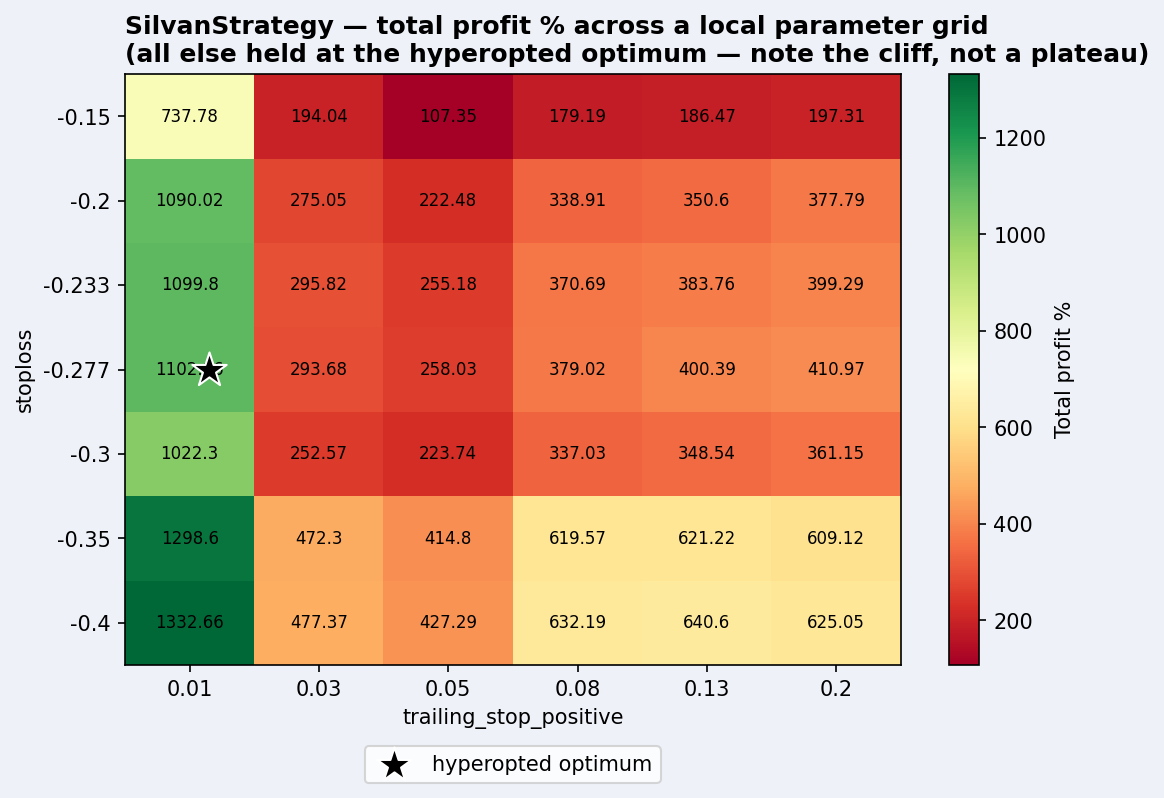
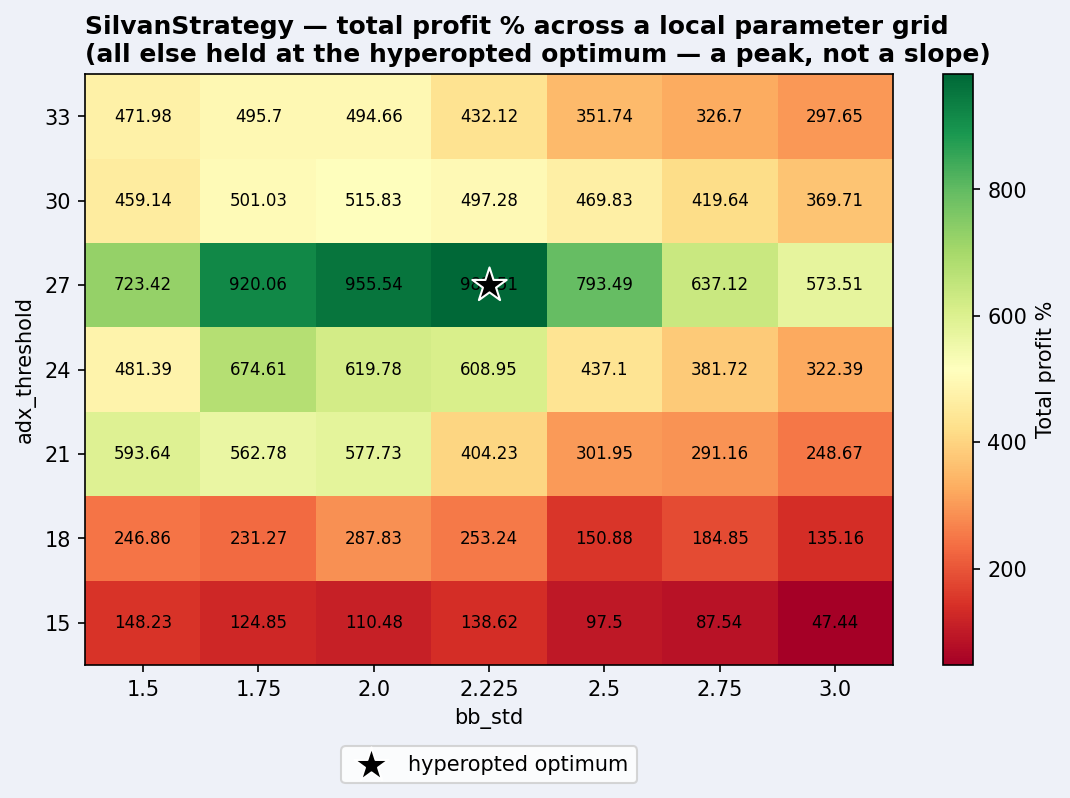
docs: replace parameter heatmap with a cleaner overfitting example
Swap the stoploss x trailing_stop_positive heatmap for adx_threshold x
bb_std: the former showed a real cliff but one with a plausible
risk-management story (wider stops survive crypto pullbacks), which is
a weaker demonstration of pure curve-fitting.

adx_threshold x bb_std shows a genuine isolated peak instead: profit
rises from 47% at adx_threshold=15 to 982% at exactly 27 (the
hyperopted value) and falls back to 298-472% at 33, six units away in
either direction, with no economic rationale for why 27 specifically
is "the" trend-strength cutoff. Two other sweeps (regime_ma_len x
rsi_buy, ema_fast_len x ema_slow_len) came back smooth and are
mentioned as an honest counterpoint in the README text.

diff --git a/README.md b/README.md
@@ -102,29 +102,32 @@ freqtrade strategies look amazing on paper and lose money live:
    "happens" to know in advance when each regime turns — impossible in real
    time.
 
-**Parameter fragility: a cliff, not a plateau**
+**Parameter fragility: a peak, not a slope**
 
 If curve-fitting had produced anything resembling a real edge, nearby
 parameter values would perform similarly — a broad, gently-sloping plateau.
 Holding every other hyperopted parameter fixed at its "optimal" value and
-sweeping just `stoploss` and `trailing_stop_positive` on a grid:
+sweeping `adx_threshold` and `bb_std` on a grid:
 
 ![Parameter heatmap](assets/silvan_param_heatmap.png)
 
-At `trailing_stop_positive = 0.01` (the optimizer landed on 0.013), total
-profit ranges 738–1333% depending on `stoploss`. Nudge `trailing_stop_positive`
-one notch to 0.03 — barely a change — and it collapses to 194–477%, a drop
-of 60-85%, before drifting back up further out. That's not an edge that
-happens to sit at 0.013, it's a narrow lucky corridor the optimizer found by
-trying enough combinations against the same data it's graded on.
+Profit rises from 47% at `adx_threshold=15` to a peak of 982% at exactly
+`adx_threshold=27` — the value the optimizer landed on — then falls back to
+298–472% at `adx_threshold=33`, just 6 units away in either direction.
+There's no economic reason "strong enough trend" should mean ADX above 27
+specifically rather than 24 or 30; the peak sits there because that's what
+this particular six-year window happened to reward.
 
-For contrast, not every parameter behaves this way: `regime_ma_len` and
-`rsi_buy`, swept the same way, produce a much smoother surface — worth
-noting because "the parameters aren't sensitive" is sometimes used as a
-defense against overfitting, and it would have been a weak one here. Some
-parameters were robust, and the strategy was still worthless out of sample
-(see the walk-forward check below). Smoothness in one slice proves nothing
-about the whole space.
+Not every parameter behaves this way: `regime_ma_len`, `rsi_buy`, and the
+two moving-average lengths, swept the same way, produce much smoother
+surfaces (`stoploss` and `trailing_stop_positive` show a real cliff too, but
+in a direction with a plausible risk-management story — wider stops survive
+crypto's violent pullbacks — so it's a weaker example of pure overfitting).
+That's worth flagging, because "the parameters aren't sensitive" is
+sometimes used as a defense against overfitting, and for those it would
+have been true. It just doesn't generalize: some parameters were robust and
+the strategy was still worthless out of sample (see the walk-forward check
+below). Smoothness in one slice proves nothing about the whole space.
 
 **A sin we didn't include: look-ahead bias**
 
